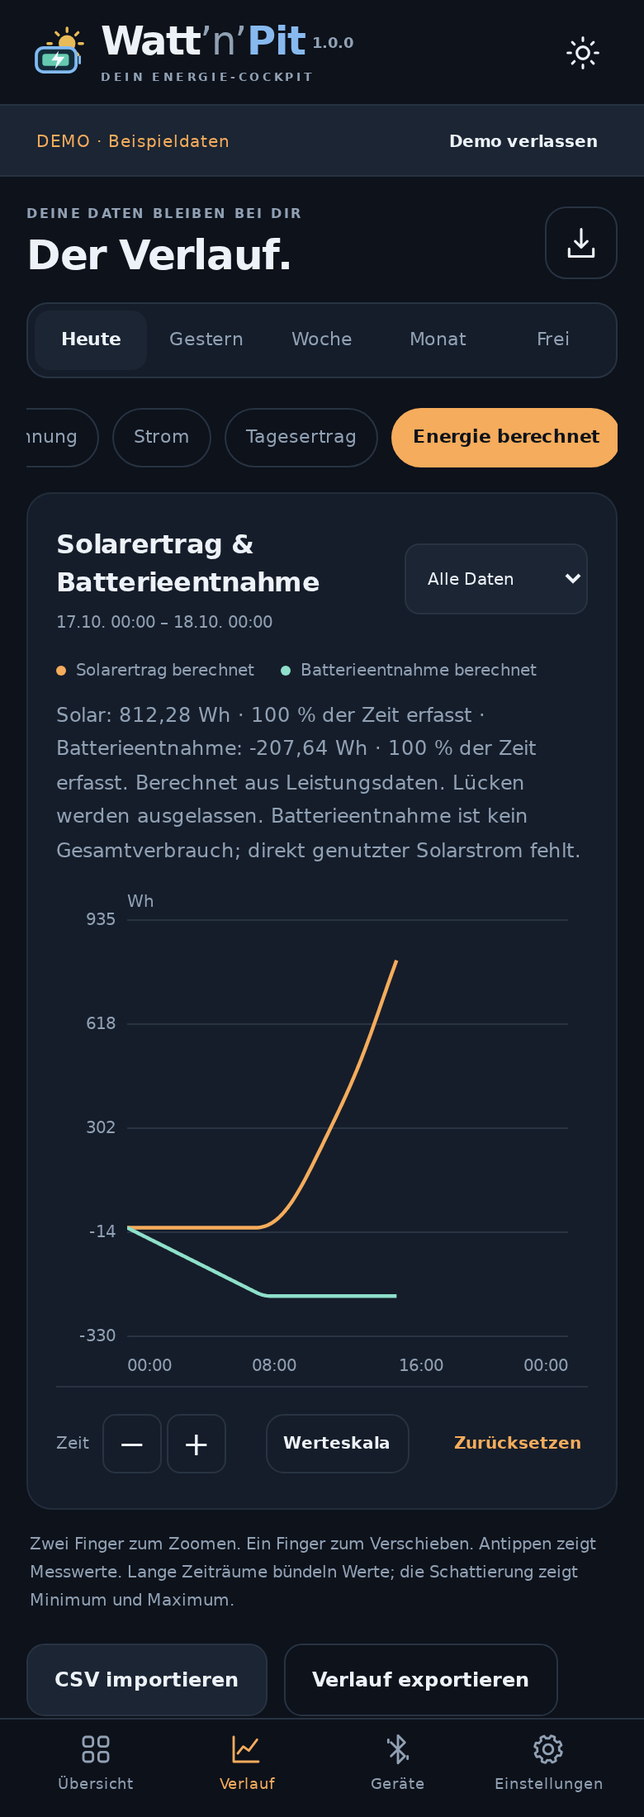
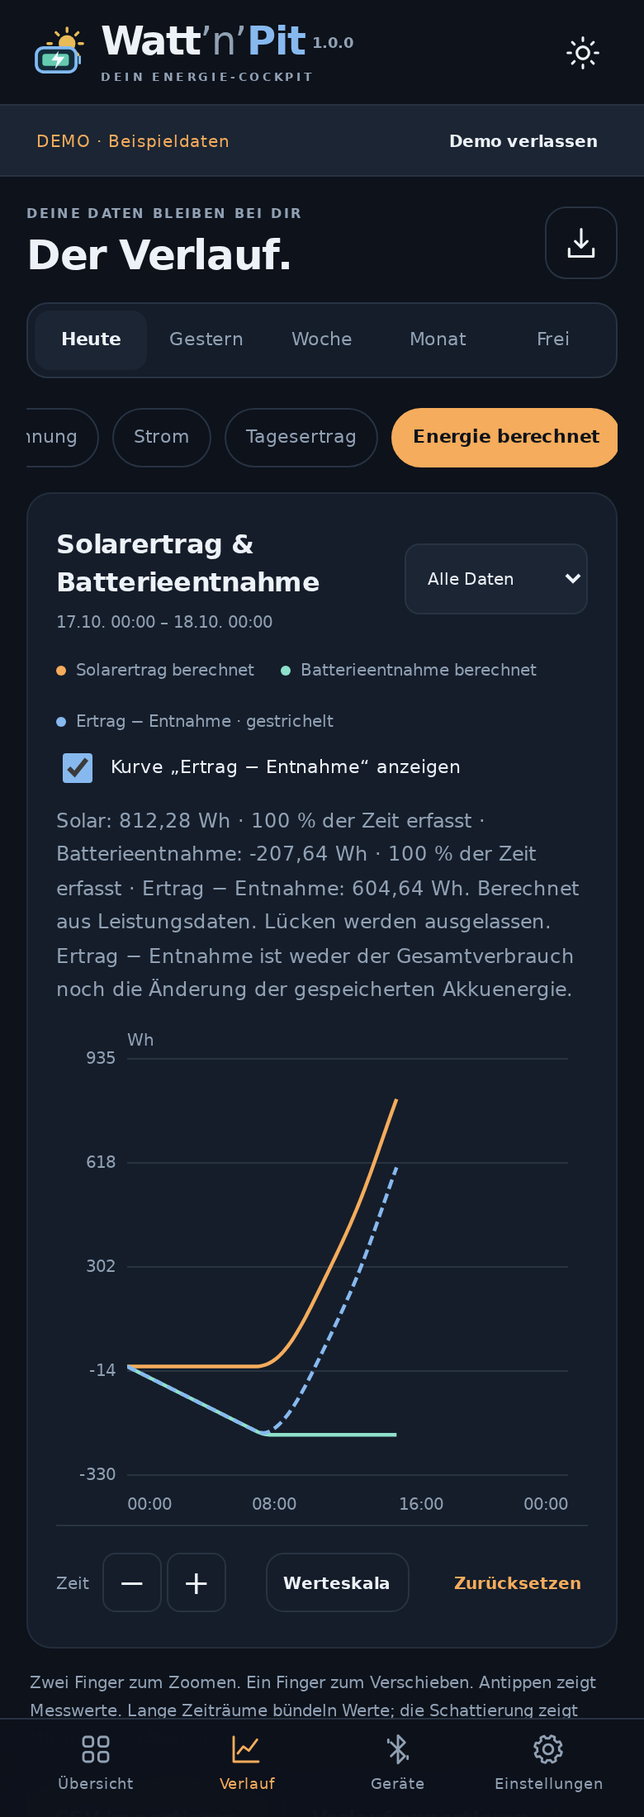
Add optional calculated energy comparison curve with gap-aware source alignment

diff --git a/app/src/main/assets/app.js b/app/src/main/assets/app.js
@@ -208,11 +208,12 @@ function loadHistory() {
     if(metric==='energy'){
       energyData=demo?(source==='csv'?{}:sampleEnergyDemo(viewFrom,viewTo)):native?.energyHistory?JSON.parse(native.energyHistory(Math.floor(viewFrom),Math.ceil(viewTo),source)):{};
       if(energyData.error)throw new Error();
-      const battery=(energyData.battery?.points||[]).map(p=>({...p,v:dischargeValue(p.v),min:dischargeValue(p.max),max:dischargeValue(p.min)}));
-      points=[...(energyData.solar?.points||[]),...battery].sort((a,b)=>a.t-b.t);
+      energyData.balance=window.WattDashboardCore.energyBalance(energyData.solar,energyData.battery);
+      points=energyPlotPoints(energyData);
     }else points=demo?(source==='csv'?[]:sampleDemo(viewFrom,viewTo,metric)):native?JSON.parse(native.history(Math.floor(viewFrom),Math.ceil(viewTo),metric,source)).points || []:[];
   }catch(error){points=[];energyData=null;toast('Der Verlauf konnte nicht geladen werden.');}
   $('energyNote').hidden=metric!=='energy';
+  $('energyOptions').hidden=metric!=='energy';
   $('energyNote').textContent=metric==='energy'?energyDescription(energyData):'';
   $('chartTitle').textContent=metrics[metric].title;
   $('chartWindow').textContent=`${date(viewFrom)} ${clock(viewFrom)} – ${date(viewTo)} ${clock(viewTo)}`;
@@ -232,10 +233,14 @@ function loadMini(force=false) {
   drawMini();
 }
 function dischargeValue(v){return window.WattDashboardCore.finite(v)?-Math.abs(Number(v))||0:null;}
+function energyPlotPoints(data){
+  const battery=(data?.battery?.points||[]).map(p=>({...p,v:dischargeValue(p.v),min:dischargeValue(p.max),max:dischargeValue(p.min)}));
+  return [...(data?.solar?.points||[]),...battery,...($('energyBalance').checked?data?.balance?.points||[]:[])].sort((a,b)=>a.t-b.t);
+}
 function energyDescription(data){
   const describe=(series,label)=>{const s=series?.summary||{},coverage=Math.floor((s.coverage||0)*100);return `${label}: ${num(s.last,2)} Wh · ${coverage} % der Zeit erfasst`;};
   const battery=data?.battery?{...data.battery,summary:{...data.battery.summary,last:dischargeValue(data.battery.summary?.last)}}:null;
-  return describe(data?.solar,'Solar')+' · '+describe(battery,'Batterieentnahme')+'. Berechnet aus Leistungsdaten. Lücken werden ausgelassen. Batterieentnahme ist kein Gesamtverbrauch; direkt genutzter Solarstrom fehlt.';
+  return describe(data?.solar,'Solar')+' · '+describe(battery,'Batterieentnahme')+' · Ertrag − Entnahme: '+num(data?.balance?.summary?.last,2)+' Wh. Berechnet aus Leistungsdaten. Lücken werden ausgelassen. Ertrag − Entnahme ist weder der Gesamtverbrauch noch die Änderung der gespeicherten Akkuenergie.';
 }
 function sampleEnergyDemo(from,to){
   const data=sampleDemo(from,to,'power'),result={};
@@ -250,6 +255,7 @@ function seriesOf(data) {
   return [...groups.values()];
 }
 function seriesLabel(s) {
+  if(s.kind==='balance')return 'Ertrag − Entnahme';
   if(s.origin==='calculated')return s.kind==='solar'?'Solarertrag berechnet':'Batterieentnahme berechnet';
   const name=snapshot.devices.find(d=>d.mac===s.device)?.name || (s.kind==='solar'?'SmartSolar':'SmartShunt');
   return name + (s.origin==='csv'?' · CSV':s.origin==='archive'?' · Archiv':'');
@@ -260,7 +266,7 @@ function canvasChart(canvas,data,from,to,chosen,mini=false) {
   canvas.width=Math.round(width*ratio);canvas.height=Math.round(height*ratio);
   const ctx=canvas.getContext('2d');ctx.scale(ratio,ratio);
   const style=getComputedStyle(document.documentElement),muted=style.getPropertyValue('--muted').trim(),border=style.getPropertyValue('--border').trim();
-  const mint=style.getPropertyValue('--mint').trim(),orange=style.getPropertyValue('--orange').trim();
+  const mint=style.getPropertyValue('--mint').trim(),orange=style.getPropertyValue('--orange').trim(),blue=style.getPropertyValue('--blue').trim();
   const left=chosen==='yieldWh'?51:43,right=12,top=18,bottom=30;
   const plotW=width-left-right,plotH=height-top-bottom;
   const visible=data.filter(p=>p.t>=from&&p.t<=to);
@@ -282,14 +288,14 @@ function canvasChart(canvas,data,from,to,chosen,mini=false) {
   ctx.save();ctx.beginPath();ctx.rect(left,top,plotW,plotH);ctx.clip();
   const series=seriesOf(visible);
   for(const s of series){
-    const color=s.kind==='solar'?orange:mint;
+    const color=s.kind==='balance'?blue:s.kind==='solar'?orange:mint;
     const bucket=(to-from)/600;
     const gapLimit=Math.max(bucket*3,s.origin==='csv'?45*60000:45000,...s.points.map(p=>(p.period||0)*1500));
     const segments=[];let segment=[];
     for(const p of s.points){if(segment.length && (chosen==='energy'?p.gap:p.t-segment[segment.length-1].last>gapLimit)){segments.push(segment);segment=[];}segment.push(p);}if(segment.length)segments.push(segment);
     for(const segment of segments){
       if(segment.some(p=>p.n>1)){ctx.beginPath();segment.forEach((p,i)=>i?ctx.lineTo(x(p.t),y(p.max)):ctx.moveTo(x(p.t),y(p.max)));[...segment].reverse().forEach(p=>ctx.lineTo(x(p.t),y(p.min)));ctx.closePath();ctx.globalAlpha=.16;ctx.fillStyle=color;ctx.fill();ctx.globalAlpha=1;}
-      ctx.strokeStyle=color;ctx.lineWidth=mini?2:2.2;ctx.setLineDash(s.origin==='csv'?[5,4]:[]);ctx.beginPath();segment.forEach((p,i)=>i?ctx.lineTo(x(p.t),y(p.v)):ctx.moveTo(x(p.t),y(p.v)));ctx.stroke();ctx.setLineDash([]);
+      ctx.strokeStyle=color;ctx.lineWidth=mini?2:2.2;ctx.setLineDash(s.kind==='balance'?[6,3]:s.origin==='csv'?[5,4]:[]);ctx.beginPath();segment.forEach((p,i)=>i?ctx.lineTo(x(p.t),y(p.v)):ctx.moveTo(x(p.t),y(p.v)));ctx.stroke();ctx.setLineDash([]);
       if(segment.length===1){ctx.beginPath();ctx.arc(x(segment[0].t),y(segment[0].v),2.5,0,Math.PI*2);ctx.fillStyle=color;ctx.fill();}
     }
   }
@@ -299,7 +305,7 @@ function canvasChart(canvas,data,from,to,chosen,mini=false) {
 function drawHistory(){
   if(page!=='history')return;
   scale=canvasChart($('historyChart'),points,viewFrom,viewTo,metric);
-  $('chartLegend').innerHTML=scale.series.map(s=>`<span><i class="dot ${s.kind==='solar'?'orange':'mint'}"></i>${escapeHtml(seriesLabel(s))}${s.origin==='csv'?' · gestrichelt':''}</span>`).join('');
+  $('chartLegend').innerHTML=scale.series.map(s=>`<span><i class="dot ${s.kind==='balance'?'blue':s.kind==='solar'?'orange':'mint'}"></i>${escapeHtml(seriesLabel(s))}${s.origin==='csv'||s.kind==='balance'?' · gestrichelt':''}</span>`).join('');
 }
 function drawMini(){if(page==='overview'&&miniWindow)canvasChart($('miniChart'),miniPoints,miniWindow.from,Math.max(miniWindow.from+1,miniWindow.to),'power',true);}
 function clampView(from,to){const span=Math.min(baseTo-baseFrom,Math.max(60000,to-from));let start=Math.max(baseFrom,Math.min(from,baseTo-span));viewFrom=start;viewTo=start+span;selectedPoint=null;$('chartTooltip').hidden=true;drawHistory();delayedHistory();}
@@ -323,7 +329,7 @@ $('historyChart').addEventListener('pointermove',event=>{
 });
 function releasePointer(event){
   if(!pointers.has(event.pointerId))return;
-  if(pointers.size===1&&dragDistance<6&&scale){const px=event.clientX-$('historyChart').getBoundingClientRect().left;const time=viewFrom+(px-scale.left)/scale.plotW*(viewTo-viewFrom);const nearest=[...points].sort((a,b)=>Math.abs(a.t-time)-Math.abs(b.t-time))[0];if(nearest){selectedPoint=nearest;const nearby=points.filter(p=>Math.abs(p.t-nearest.t)<Math.max(1000,(viewTo-viewFrom)/500));$('chartTooltip').innerHTML=`<strong>${date(nearest.t)} ${clock(nearest.t)}</strong><br>${nearby.slice(0,4).map(p=>`${escapeHtml(seriesLabel(p))}: ${num(p.v,metric==='voltage'||metric==='current'?2:1)} ${metrics[metric].unit}${p.period?`<br><span class="muted">Archivauflösung ${num(p.period)} s</span>`:''}${p.n>1?`<br><span class="muted">Ø aus ${p.n} Werten · ${num(p.min,1)}–${num(p.max,1)} ${metrics[metric].unit}</span>`:''}`).join('<br>')}`;$('chartTooltip').hidden=false;drawHistory();}}
+  if(pointers.size===1&&dragDistance<6&&scale){const px=event.clientX-$('historyChart').getBoundingClientRect().left;const time=viewFrom+(px-scale.left)/scale.plotW*(viewTo-viewFrom);const nearest=[...points].sort((a,b)=>Math.abs(a.t-time)-Math.abs(b.t-time))[0];if(nearest){selectedPoint=nearest;const nearby=seriesOf(points.filter(p=>Math.abs(p.t-nearest.t)<Math.max(1000,(viewTo-viewFrom)/500))).map(s=>s.points.reduce((a,b)=>Math.abs(a.t-nearest.t)<=Math.abs(b.t-nearest.t)?a:b));$('chartTooltip').innerHTML=`<strong>${date(nearest.t)} ${clock(nearest.t)}</strong><br>${nearby.slice(0,4).map(p=>`${escapeHtml(seriesLabel(p))}: ${num(p.v,['energy','voltage','current'].includes(metric)?2:1)} ${metrics[metric].unit}${p.period?`<br><span class="muted">Archivauflösung ${num(p.period)} s</span>`:''}${p.n>1?`<br><span class="muted">Ø aus ${p.n} Werten · ${num(p.min,1)}–${num(p.max,1)} ${metrics[metric].unit}</span>`:''}`).join('<br>')}`;$('chartTooltip').hidden=false;drawHistory();}}
   pointers.delete(event.pointerId);gesture=null;
 }
 $('historyChart').addEventListener('pointerup',releasePointer);
@@ -380,6 +386,7 @@ $('modal').onclick=event=>{if(event.target===$('modal'))closeModal();};
 document.addEventListener('keydown',event=>{if(event.key==='Escape')window.handleBack();if(event.key==='Tab'&&!$('modal').hidden){const items=[...$('modal').querySelectorAll('button:not(:disabled),input:not(:disabled),select:not(:disabled),summary')].filter(el=>el.offsetParent);if(!items.length)return;const first=items[0],last=items[items.length-1];if(event.shiftKey&&document.activeElement===first){last.focus();event.preventDefault();}else if(!event.shiftKey&&document.activeElement===last){first.focus();event.preventDefault();}}});
 $('applyRange').onclick=()=>setWindow(new Date($('rangeFrom').value).getTime(),new Date($('rangeTo').value).getTime());
 $('historySource').onchange=()=>{source=$('historySource').value;loadHistory();};
+$('energyBalance').onchange=()=>{if(metric!=='energy')return;points=energyPlotPoints(energyData);selectedPoint=null;$('chartTooltip').hidden=true;drawHistory();};
 $('zoomIn').onclick=()=>zoom(.5);$('zoomOut').onclick=()=>zoom(2);$('openScale').onclick=scaleForm;
 $('resetChart').onclick=()=>{viewFrom=baseFrom;viewTo=baseTo;manualY=null;loadHistory();};
 ['importCsv','historyImport','settingsImport'].forEach(id=>$(id).onclick=chooseImport);

diff --git a/app/src/main/assets/index.html b/app/src/main/assets/index.html
@@ -44,7 +44,7 @@
   <div id="customRange" class="custom-range" hidden><label>Von<input id="rangeFrom" type="datetime-local"></label><label>Bis<input id="rangeTo" type="datetime-local"></label><button class="primary" id="applyRange">Anzeigen</button></div>
   <div class="metric-chips" id="metricButtons"><button data-metric="power" class="selected">Leistung</button><button data-metric="soc">Akku</button><button data-metric="voltage">Spannung</button><button data-metric="current">Strom</button><button data-metric="yieldWh">Tagesertrag</button><button data-metric="energy">Energie berechnet</button></div>
   <p id="historyArchiveStatus" class="muted" role="status" hidden></p>
-  <article class="card full-history"><div class="section-heading"><div><h2 id="chartTitle">Solar & Batteriebilanz</h2><p id="chartWindow" class="muted"></p></div><select id="historySource" aria-label="Datenquelle"><option value="all">Alle Daten</option><option value="live">Aufgezeichnet</option><option value="archive">Gerätearchiv</option><option value="csv">CSV-Import</option></select></div><div id="chartLegend" class="chart-legend"></div><p id="energyNote" class="muted energy-note" hidden></p><div class="chart-wrap"><canvas id="historyChart" aria-label="Interaktiver Energieverlauf; mit zwei Fingern zoomen, mit einem Finger verschieben"></canvas><div id="chartTooltip" class="chart-tooltip" hidden></div></div><div class="chart-controls"><div class="zoom-control"><span>Zeit</span><button id="zoomOut" aria-label="Zeitachse verkleinern">−</button><button id="zoomIn" aria-label="Zeitachse vergrößern">+</button></div><button class="quiet" id="openScale">Werteskala</button><button class="textbutton" id="resetChart">Zurücksetzen</button></div></article>
+  <article class="card full-history"><div class="section-heading"><div><h2 id="chartTitle">Solar & Batteriebilanz</h2><p id="chartWindow" class="muted"></p></div><select id="historySource" aria-label="Datenquelle"><option value="all">Alle Daten</option><option value="live">Aufgezeichnet</option><option value="archive">Gerätearchiv</option><option value="csv">CSV-Import</option></select></div><div id="chartLegend" class="chart-legend"></div><div id="energyOptions" hidden><label class="energy-toggle"><input id="energyBalance" type="checkbox" checked>Kurve „Ertrag − Entnahme“ anzeigen</label></div><p id="energyNote" class="muted energy-note" hidden></p><div class="chart-wrap"><canvas id="historyChart" aria-label="Interaktiver Energieverlauf; mit zwei Fingern zoomen, mit einem Finger verschieben"></canvas><div id="chartTooltip" class="chart-tooltip" hidden></div></div><div class="chart-controls"><div class="zoom-control"><span>Zeit</span><button id="zoomOut" aria-label="Zeitachse verkleinern">−</button><button id="zoomIn" aria-label="Zeitachse vergrößern">+</button></div><button class="quiet" id="openScale">Werteskala</button><button class="textbutton" id="resetChart">Zurücksetzen</button></div></article>
   <p class="chart-help">Zwei Finger zum Zoomen. Ein Finger zum Verschieben. Antippen zeigt Messwerte. Lange Zeiträume bündeln Werte; die Schattierung zeigt Minimum und Maximum.</p>
   <div class="row file-actions"><button class="secondary" id="importCsv">CSV importieren</button><button class="quiet" id="exportCsv">Verlauf exportieren</button></div>
   <div id="historyStats" class="info-note"></div>

diff --git a/app/src/main/assets/dashboard-core.js b/app/src/main/assets/dashboard-core.js
@@ -141,6 +141,35 @@
     if(input.dischargeSignVersion!==1)for(const t of tiles)if(t.metric==='dischargeEnergy')t.reverseSign=true;
     return {version:1,dischargeSignVersion:1,blockOrder:[...new Set([...order,...BLOCK_ORDER])],tiles};
   }
+  // Compare the two calculated cumulative curves at common timestamps only.
+  // Missing coverage stays a break; neither source is extended outside its data.
+  function energyBalance(solar={},battery={}) {
+    solar=solar||{};battery=battery||{};
+    const empty={points:[],summary:{last:null}};
+    for(const key of ['from','to'])if(finite(solar.summary?.[key])&&finite(battery.summary?.[key])&&Number(solar.summary[key])!==Number(battery.summary[key]))return empty;
+    const prepare=series=>{
+      const out=[];
+      for(const p of [...(Array.isArray(series.points)?series.points:[])].filter(p=>p&&finite(p.t)).sort((a,b)=>a.t-b.t)){
+        const point={t:Number(p.t),v:finite(p.v)&&Number(p.v)>=0?Number(p.v):null,gap:!!p.gap};
+        if(out.length&&out[out.length-1].t===point.t){point.gap=point.gap||out[out.length-1].gap;out[out.length-1]=point;}else out.push(point);
+      }return out;
+    };
+    const a=prepare(solar),b=prepare(battery);
+    const at=(series,t)=>{
+      let lo=0,hi=series.length;
+      while(lo<hi){const mid=(lo+hi)>>1;if(series[mid].t<t)lo=mid+1;else hi=mid;}
+      const right=series[lo];if(right?.t===t)return right.v==null?null:right;
+      const left=series[lo-1];
+      return left&&right&&!right.gap&&left.v!=null&&right.v!=null?{v:left.v+(right.v-left.v)*(t-left.t)/(right.t-left.t),gap:false}:null;
+    };
+    const times=[...new Set([...a,...b].map(p=>p.t))].sort((a,b)=>a-b),points=[];
+    let gap=true;
+    for(const t of times){const x=at(a,t),y=at(b,t);if(!x||!y){gap=true;continue;}
+      const v=x.v-y.v||0;points.push({t,last:t,v,min:v,max:v,n:1,gap:gap||x.gap||y.gap,kind:'balance',device:'calculated-balance',origin:'calculated'});gap=false;
+    }
+    const x=solar.summary?.last,y=battery.summary?.last;
+    return {points,summary:{last:finite(x)&&finite(y)&&x>=0&&y>=0?Number(x)-Number(y)||0:null}};
+  }
   function windowFor(t,now=Date.now(),weather={}) {
     if(CATALOG[t.metric].widget)return null;
     const p=t.period;
@@ -226,5 +255,5 @@
     }catch(_){}
     return {...today,note:'Heute: Sonnenaufgang nicht verfügbar. Wetterort wählen oder Wetter aktualisieren.'};
   }
-  return {CATALOG,PHASES,BLOCK_ORDER,finite,clamp,color,readableColor,convert,unconvert,position,tile,defaults,normalize,windowFor,liveValue,historicalValue,usesLiveValue,signedValue,fixedRange,displayValue,format,chartRange,axisLabel,miniWindow};
+  return {CATALOG,PHASES,BLOCK_ORDER,finite,clamp,color,readableColor,convert,unconvert,position,tile,defaults,normalize,energyBalance,windowFor,liveValue,historicalValue,usesLiveValue,signedValue,fixedRange,displayValue,format,chartRange,axisLabel,miniWindow};
 });

diff --git a/app/src/main/assets/dashboard.css b/app/src/main/assets/dashboard.css
@@ -18,3 +18,7 @@ html[data-theme="light"]{--muted:#485c72;--faint:#53667c}html[data-theme="light"
 .short-tile.type-chart .tile-number{font-size:min(var(--number-size),18px)}
 .short-tile.type-chart .tile-sparkline{height:0;min-height:0;flex:1 1 0;margin-top:2px}
 .short-tile.type-chart .tile-chart-range{flex:none;font-size:7px;line-height:1.1;margin-bottom:0}
+
+.energy-toggle{display:flex;align-items:center;gap:8px;font-size:11px;color:var(--text);margin:9px 0}
+.energy-toggle input{width:18px;height:18px;min-height:18px;accent-color:var(--blue)}
+.chart-legend .dot.blue{background:var(--blue)}

diff --git a/app/src/main/java/de/wattpit/app/MainActivity.java b/app/src/main/java/de/wattpit/app/MainActivity.java
@@ -238,7 +238,7 @@ public final class MainActivity extends Activity {
             catch(Exception e) { return "{\"points\":[],\"summary\":{},\"error\":\"Zeitraum konnte nicht geladen werden.\"}"; }
         }
         @JavascriptInterface public String energyHistory(long from,long to,String source) {
-            try {return new JSONObject().put("solar",repository.db.energyData(from,to,"solarEnergy",source)).put("battery",repository.db.energyData(from,to,"dischargeEnergy",source)).toString();}
+            try {long end=Math.min(to,System.currentTimeMillis());return new JSONObject().put("solar",repository.db.energyData(from,end,"solarEnergy",source)).put("battery",repository.db.energyData(from,end,"dischargeEnergy",source)).toString();}
             catch(Exception e){return "{\"error\":\"Energieberechnung konnte nicht geladen werden.\"}";}
         }
         @JavascriptInterface public void searchWeather(String query){files.execute(()->{try{call("onWeatherSearch",new JSONObject().put("query",query).put("places",WeatherClient.search(query)));}catch(Exception e){try{call("onWeatherSearch",new JSONObject().put("query",query).put("error","Ortssuche nicht möglich. Bitte Verbindung prüfen und erneut suchen."));}catch(JSONException ignored){}}});}

diff --git a/README.md b/README.md
@@ -25,6 +25,7 @@ Solarleistung und berechneter Solarertrag beginnen standardmäßig **seit Sonnen
 - **Eigene Übersicht:** Kacheln hinzufügen, ziehen, vergrößern und überlappen. Zahlen, Rundinstrumente oder Verlauf wählen; Einheiten, Farben, Schrift und Zeiträume anpassen. Schmale und breite Ansichten haben eigene Anordnungen.
 - **Erkennbare Kurven:** Optionale automatische Skalen folgen den bisherigen Messwerten. Die große Livezahl bleibt vom Kurvenzeitraum unabhängig; „Seit Sonnenaufgang“ ist je Kachel wählbar.
 - **Berechnete Energie:** Solarertrag und Batterieentnahme aus erfassten Leistungspunkten, mit sichtbarer zeitlicher Abdeckung. Batterieentnahme erscheint direkt negativ, auch im Energieverlauf.
+- **Ertrag und Entnahme vergleichen:** Unter „Verlauf → Energie berechnet“ ergänzt eine einblendbare dritte Kurve den Wert „Ertrag − Entnahme“ in Wh. Antippen zeigt die drei Werte am gewählten Zeitpunkt.
 - **Kompaktes Wetter:** 14 Tage mit je einem Symbol und erwarteten Sonnenstunden, seitlich wischbar. Die Wetterkachel lässt sich zwischen den Messkacheln anordnen.
 - **Passend zum Setup:** Solarkreise mit Modulanzahl, Nennleistung, Montage, Regler und Messwertquelle hinterlegen. Sechs Farbdesigns, jeweils hell und dunkel.
 - **Sichern und übertragen:** Einstellungen samt Anordnungen und Wetterort als JSON exportieren und mit Vorschau importieren. Messdaten getrennt als CSV sichern oder einlesen.
@@ -57,6 +58,8 @@ Die sechsstellige Bluetooth-PIN für die Android-Kopplung ist **ein anderer Code
 
 *Berechnete Werte entstehen ausschließlich aus vorhandenen Leistungspunkten. Unbeobachtete Zeiträume werden nicht hochgerechnet.*
 
+**Ertrag − Entnahme:** Solarertrag abzüglich der aus dem Akku entnommenen Energie im selben ausgewählten Zeitraum. Die blaue gestrichelte Vergleichskurve lässt sich ein- und ausblenden. Sie beschreibt weder den Gesamtverbrauch noch die Änderung der gespeicherten Akkuenergie; dafür müssten auch Ladeenergie und weitere Quellen berücksichtigt werden. Fehlt eine Messreihe, erscheint kein erfundener Nullwert.
+
 ## Lokal und mit optionalem Wetter
 
 Aufzeichnung, Gerätearchive und CSV-Daten werden lokal zusammengeführt. Geräteschlüssel werden mit dem Android Keystore verschlüsselt gespeichert. Die Einstellungssicherung enthält **keine Geräteadressen, PINs, Schlüssel oder Messdaten**; ihr Wetterort ist Bestandteil der Konfiguration.
@@ -69,7 +72,7 @@ SmartSolar 75/15 mit Bluetooth und SmartShunt 300 A wurden an realer Hardware er
 
 Die App ändert keine Ladeparameter und löscht keine Gerätetrends. Temperatur und Zusatzspannung benötigen einen entsprechend eingerichteten Geräteeingang. Eine lang laufende Aufzeichnung kann durch Android-Energiespareinstellungen begrenzt werden.
 
-Automatisierte Prüfung: **59 JVM-Tests, 39 Node-Tests**, Android-Lint und Android-Build sowie Browserprüfungen für Bedienung, Speicherung, Importabgleich, Sonnenaufgang, Skalen und Farbdesigns. Die Android-Dateiauswahl für Einstellungssicherungen ist zusätzlich am Gerät zu bestätigen. [Versionshinweise](docs/releases/1.0.0.md) · [Technische Grundlage](docs/ARCHITECTURE.md)
+Automatisierte Prüfung: **59 JVM-Tests, 44 Node-Tests**, Android-Lint und Android-Build sowie Browserprüfungen für Bedienung, Speicherung, Importabgleich, Sonnenaufgang, Skalen, Energiekurven und Farbdesigns. Die Android-Dateiauswahl für Einstellungssicherungen ist zusätzlich am Gerät zu bestätigen. [Versionshinweise](docs/releases/1.0.0.md) · [Technische Grundlage](docs/ARCHITECTURE.md)
 
 ## Entwicklung
 

diff --git a/docs/releases/1.0.0.md b/docs/releases/1.0.0.md
@@ -25,6 +25,7 @@ Neue Installationen verwenden die neue Übersicht. **Beim Update bleibt deine ei
 - SmartSolar- und SmartShunt-Livewerte über Bluetooth. Die Gerätearchive werden beim App-Start nacheinander ergänzt und mit vorhandenen Werten abgeglichen; gleiche Archivpunkte werden nicht doppelt gespeichert.
 - Kacheln frei anordnen, vergrößern, überlappen und als Zahl, Rundinstrument oder Verlauf gestalten. Einheit, Zeitraum, Skala, Farbe, Schrift und Deckkraft sind einstellbar.
 - Berechneter Solarertrag und Batterieentnahme in Wh oder kWh mit sichtbarer zeitlicher Abdeckung. Batterieentnahme beschreibt die Entladung des Akkus, nicht den Gesamtverbrauch einschließlich direkt genutzten Solarstroms.
+- Neu unter **Verlauf → Energie berechnet**: „Ertrag − Entnahme“ als zusätzliche blaue gestrichelte Wh-Kurve und Zahlenwert. Der Schalter blendet die Kurve ein oder aus; Antippen zeigt die drei Werte am gewählten Zeitpunkt. Der Vergleich verwendet denselben Zeitraum und lässt fehlende Daten sowie Lücken offen. Er ist weder Gesamtverbrauch noch Änderung der gespeicherten Akkuenergie.
 - Solarausrüstung mit Modulanzahl, Nennleistung, Montage, Regler und Messwertquelle anpassen. Sechs Farbdesigns, jeweils hell und dunkel.
 - Einstellungen und Anordnungen als JSON sichern und mit Vorschau importieren. Geräteadressen, PINs, Schlüssel und Messdaten sind nicht Teil dieser Sicherung; ein eingestellter Wetterort ist enthalten. Messdaten lassen sich getrennt als CSV exportieren und importieren.
 - Energiedaten und Geräteschlüssel bleiben auf dem Telefon. Nur die optionale Ortssuche und Wettervorschau verwenden Open-Meteo.
@@ -35,7 +36,7 @@ Neue Installationen verwenden die neue Übersicht. **Beim Update bleibt deine ei
 
 An realer Hardware erprobt: **SmartSolar 75/15 mit Bluetooth und SmartShunt 300 A**. Je ein Solarladeregler und ein Batteriewächter können eingerichtet werden. Weitere Victron-Geräte sind nicht pauschal als kompatibel bestätigt. Die App ändert keine Ladeparameter.
 
-Geprüft mit 59 JVM-Tests, 39 Node-Tests, Android-Lint und Release-Build sowie Browserprüfungen der Standardansicht, beider Layouts, Sonnenaufgangszeiträume und bestehender Konfigurationen. Die Android-Dateiauswahl für Einstellungssicherungen ist zusätzlich am Gerät zu bestätigen.
+Geprüft mit 59 JVM-Tests, 44 Node-Tests, Android-Lint und Release-Build sowie Browserprüfungen der Standardansicht, beider Layouts, Sonnenaufgangszeiträume, bestehender Konfigurationen und der dritten Energiekurve einschließlich Werteanzeige, Umschalter, Quellenfilter, fehlender Daten und gemessener Nullwerte. Die Android-Dateiauswahl für Einstellungssicherungen ist zusätzlich am Gerät zu bestätigen.
 
 **[Anleitung mit Screenshots](https://github.com/Tim-Gurke/Watt-n-Pit/blob/v1.0.0/docs/ANLEITUNG.md)** · **[APK 1.0.0 herunterladen](https://github.com/Tim-Gurke/Watt-n-Pit/releases/download/v1.0.0/Watt-n-Pit-v1.0.0.apk)**
 

diff --git a/docs/ANLEITUNG.md b/docs/ANLEITUNG.md
@@ -81,7 +81,11 @@ Batterieentnahme erscheint standardmäßig **negativ**. Eine Kurve unter null ze
 
 ![Berechneter Solarertrag oberhalb und Batterieentnahme unterhalb von null](images/energy-history.png)
 
-*Verlauf → Energie berechnet: positiver Solarertrag und negative Batterieentnahme. Die Prozentangaben beziehen sich auf die erfasste Zeit.*
+*Verlauf → Energie berechnet: positiver Solarertrag, negative Batterieentnahme und die blaue gestrichelte Kurve „Ertrag − Entnahme“. Die Prozentangaben beziehen sich auf die erfasste Zeit.*
+
+**Ertrag − Entnahme** ist der Solarertrag abzüglich der Batterieentnahme im selben ausgewählten Zeitraum. Zum Beispiel ergeben 40 Wh Ertrag und 70 Wh Entnahme den Vergleichswert **−30 Wh**. Unter **Kurve „Ertrag − Entnahme“ anzeigen** lässt sich die dritte Kurve ein- und ausblenden. Der Zahlenwert steht über dem Diagramm; Antippen des Diagramms zeigt die drei Werte am gewählten Zeitpunkt mit zwei Nachkommastellen.
+
+Der Vergleich beschreibt weder den Gesamtverbrauch noch die Änderung der gespeicherten Akkuenergie. Die bisherige **Batteriebilanz in W** zeigt weiterhin die aktuelle Lade- bzw. Entladeleistung am Shunt. Fehlende Ertrags- oder Entnahmewerte werden nicht als null eingesetzt. Zwischen bekannten Kurvenpunkten werden die Zeitpunkte angeglichen; Aufzeichnungslücken bleiben unterbrochen.
 
 **Batterieentnahme ist kein Gesamtverbrauch.** Solarstrom, der direkt einen Verbraucher versorgt, muss nicht aus dem Akku entnommen werden. Ein weiterer Regler kann die Batteriebilanz beeinflussen, ohne seinen eigenen Solarertrag separat zu melden. Der grobe Tageszähler des SmartSolar bleibt als **Solarertrag heute** zusätzlich auswählbar.
 
